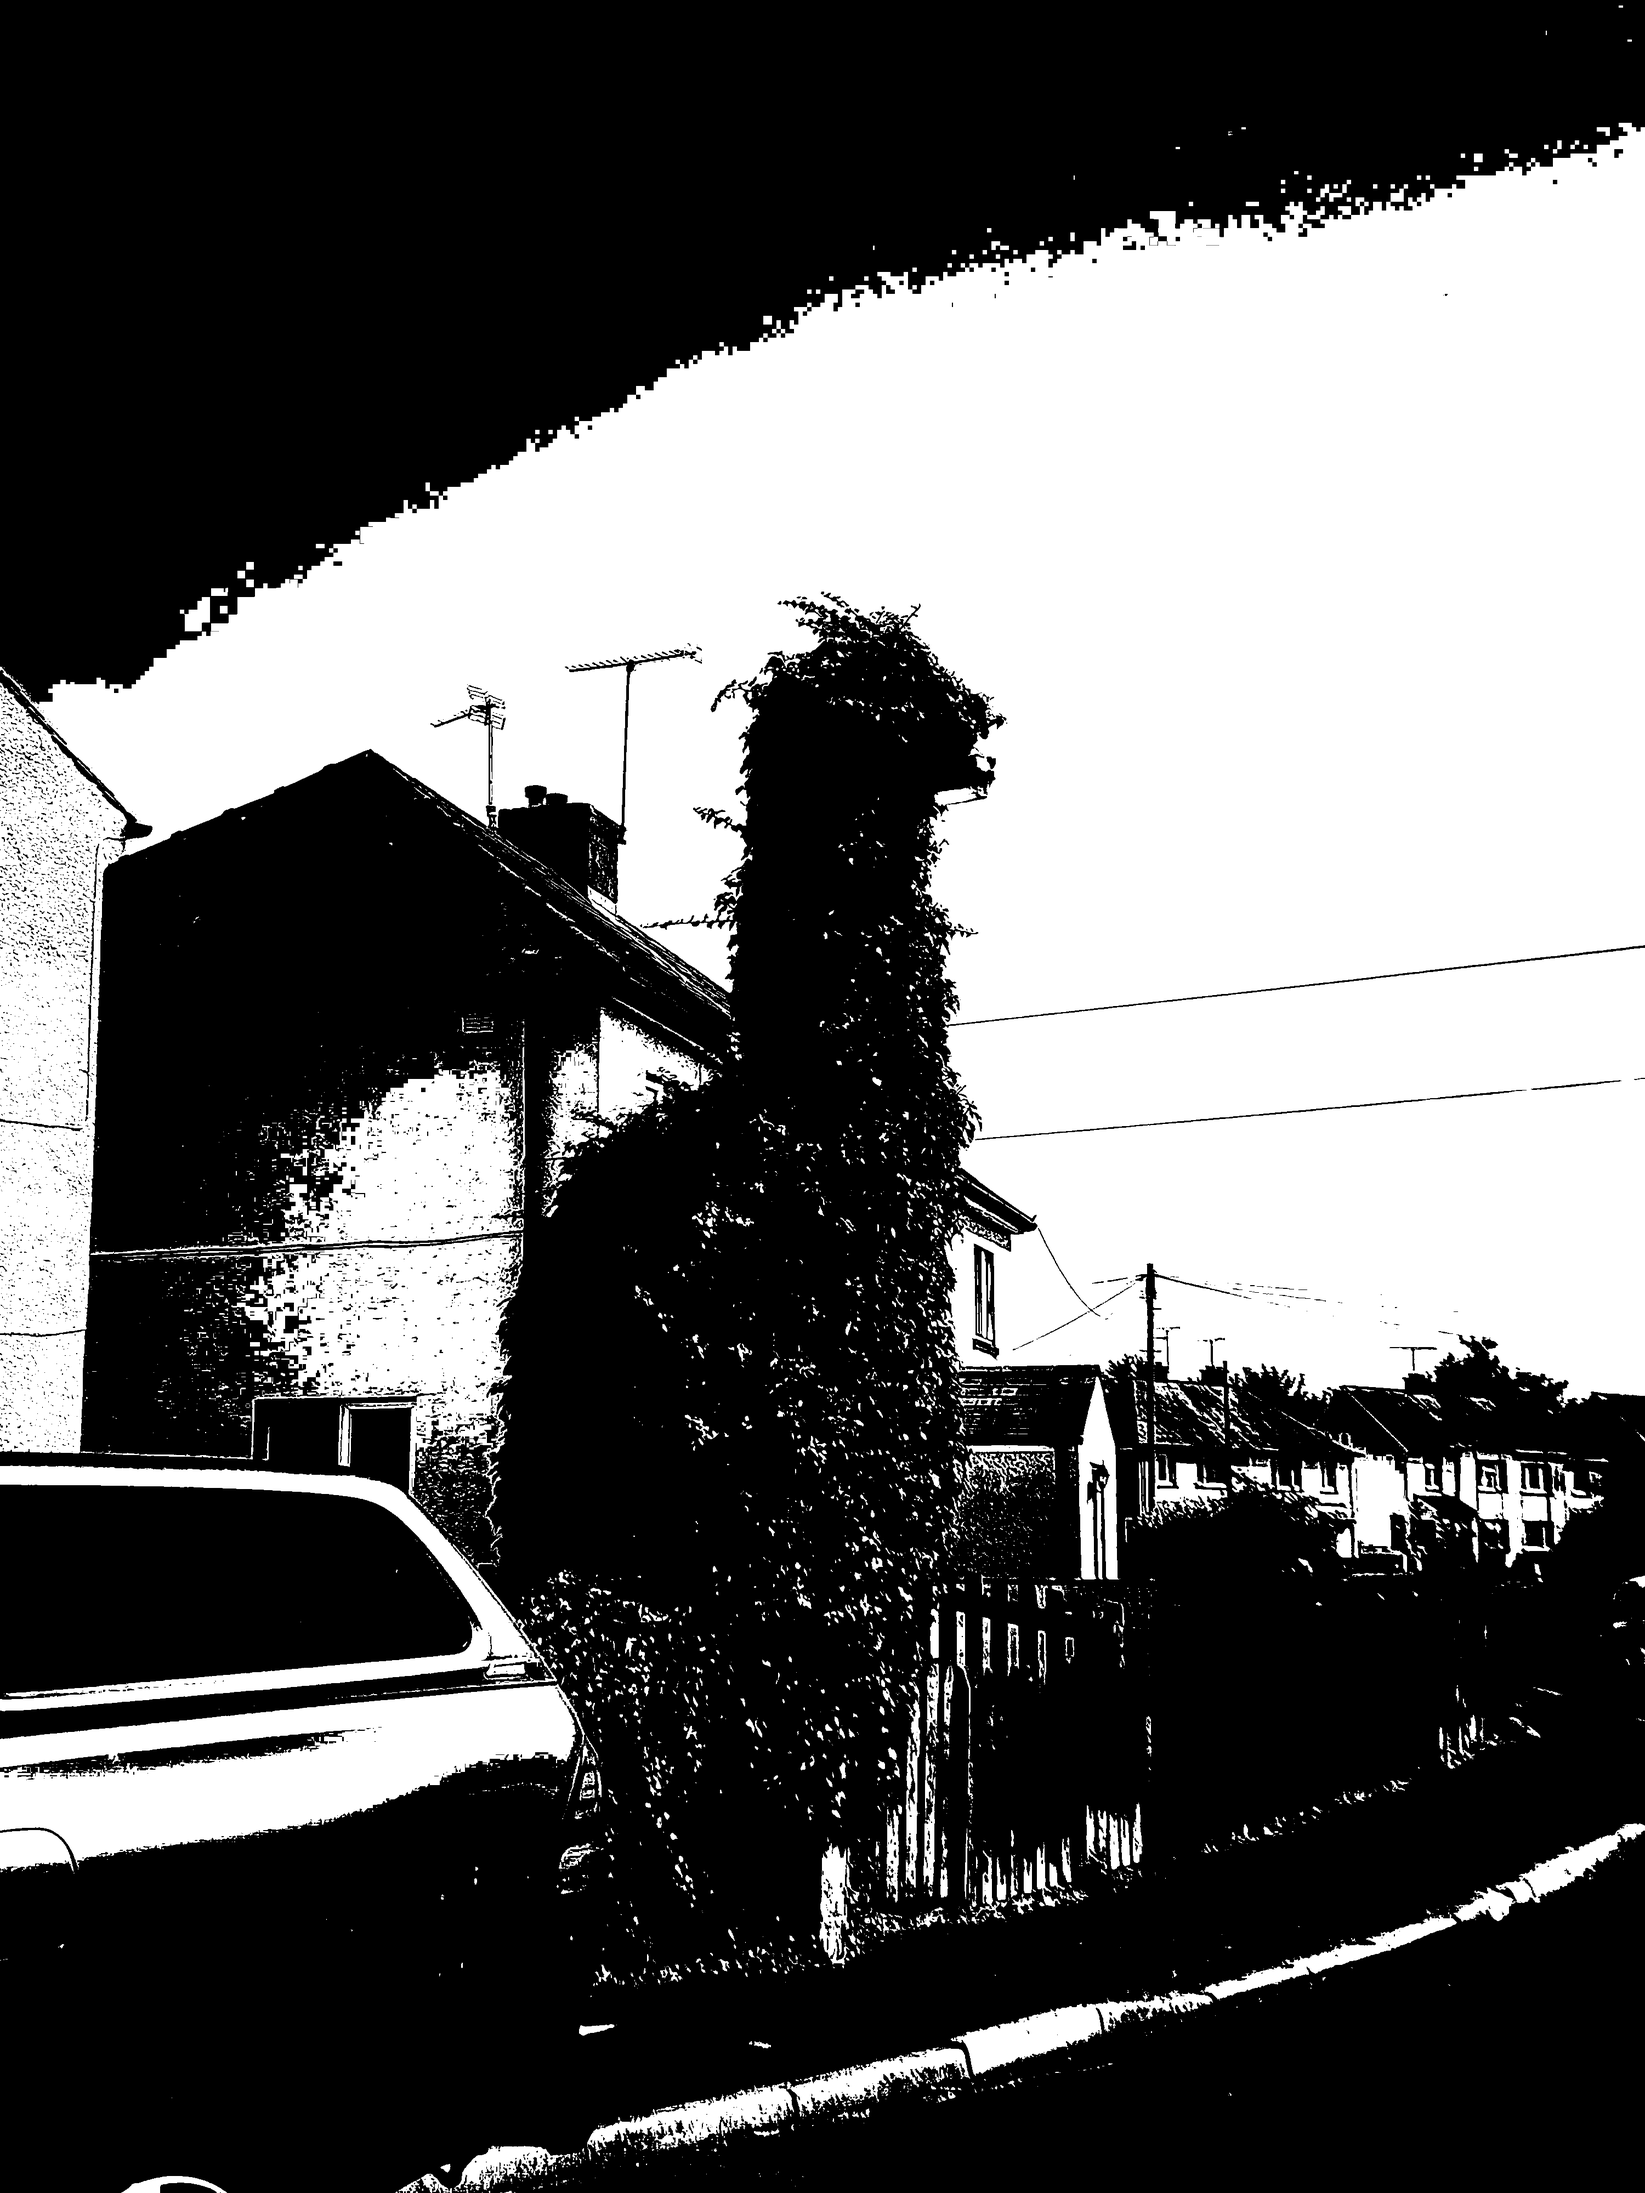
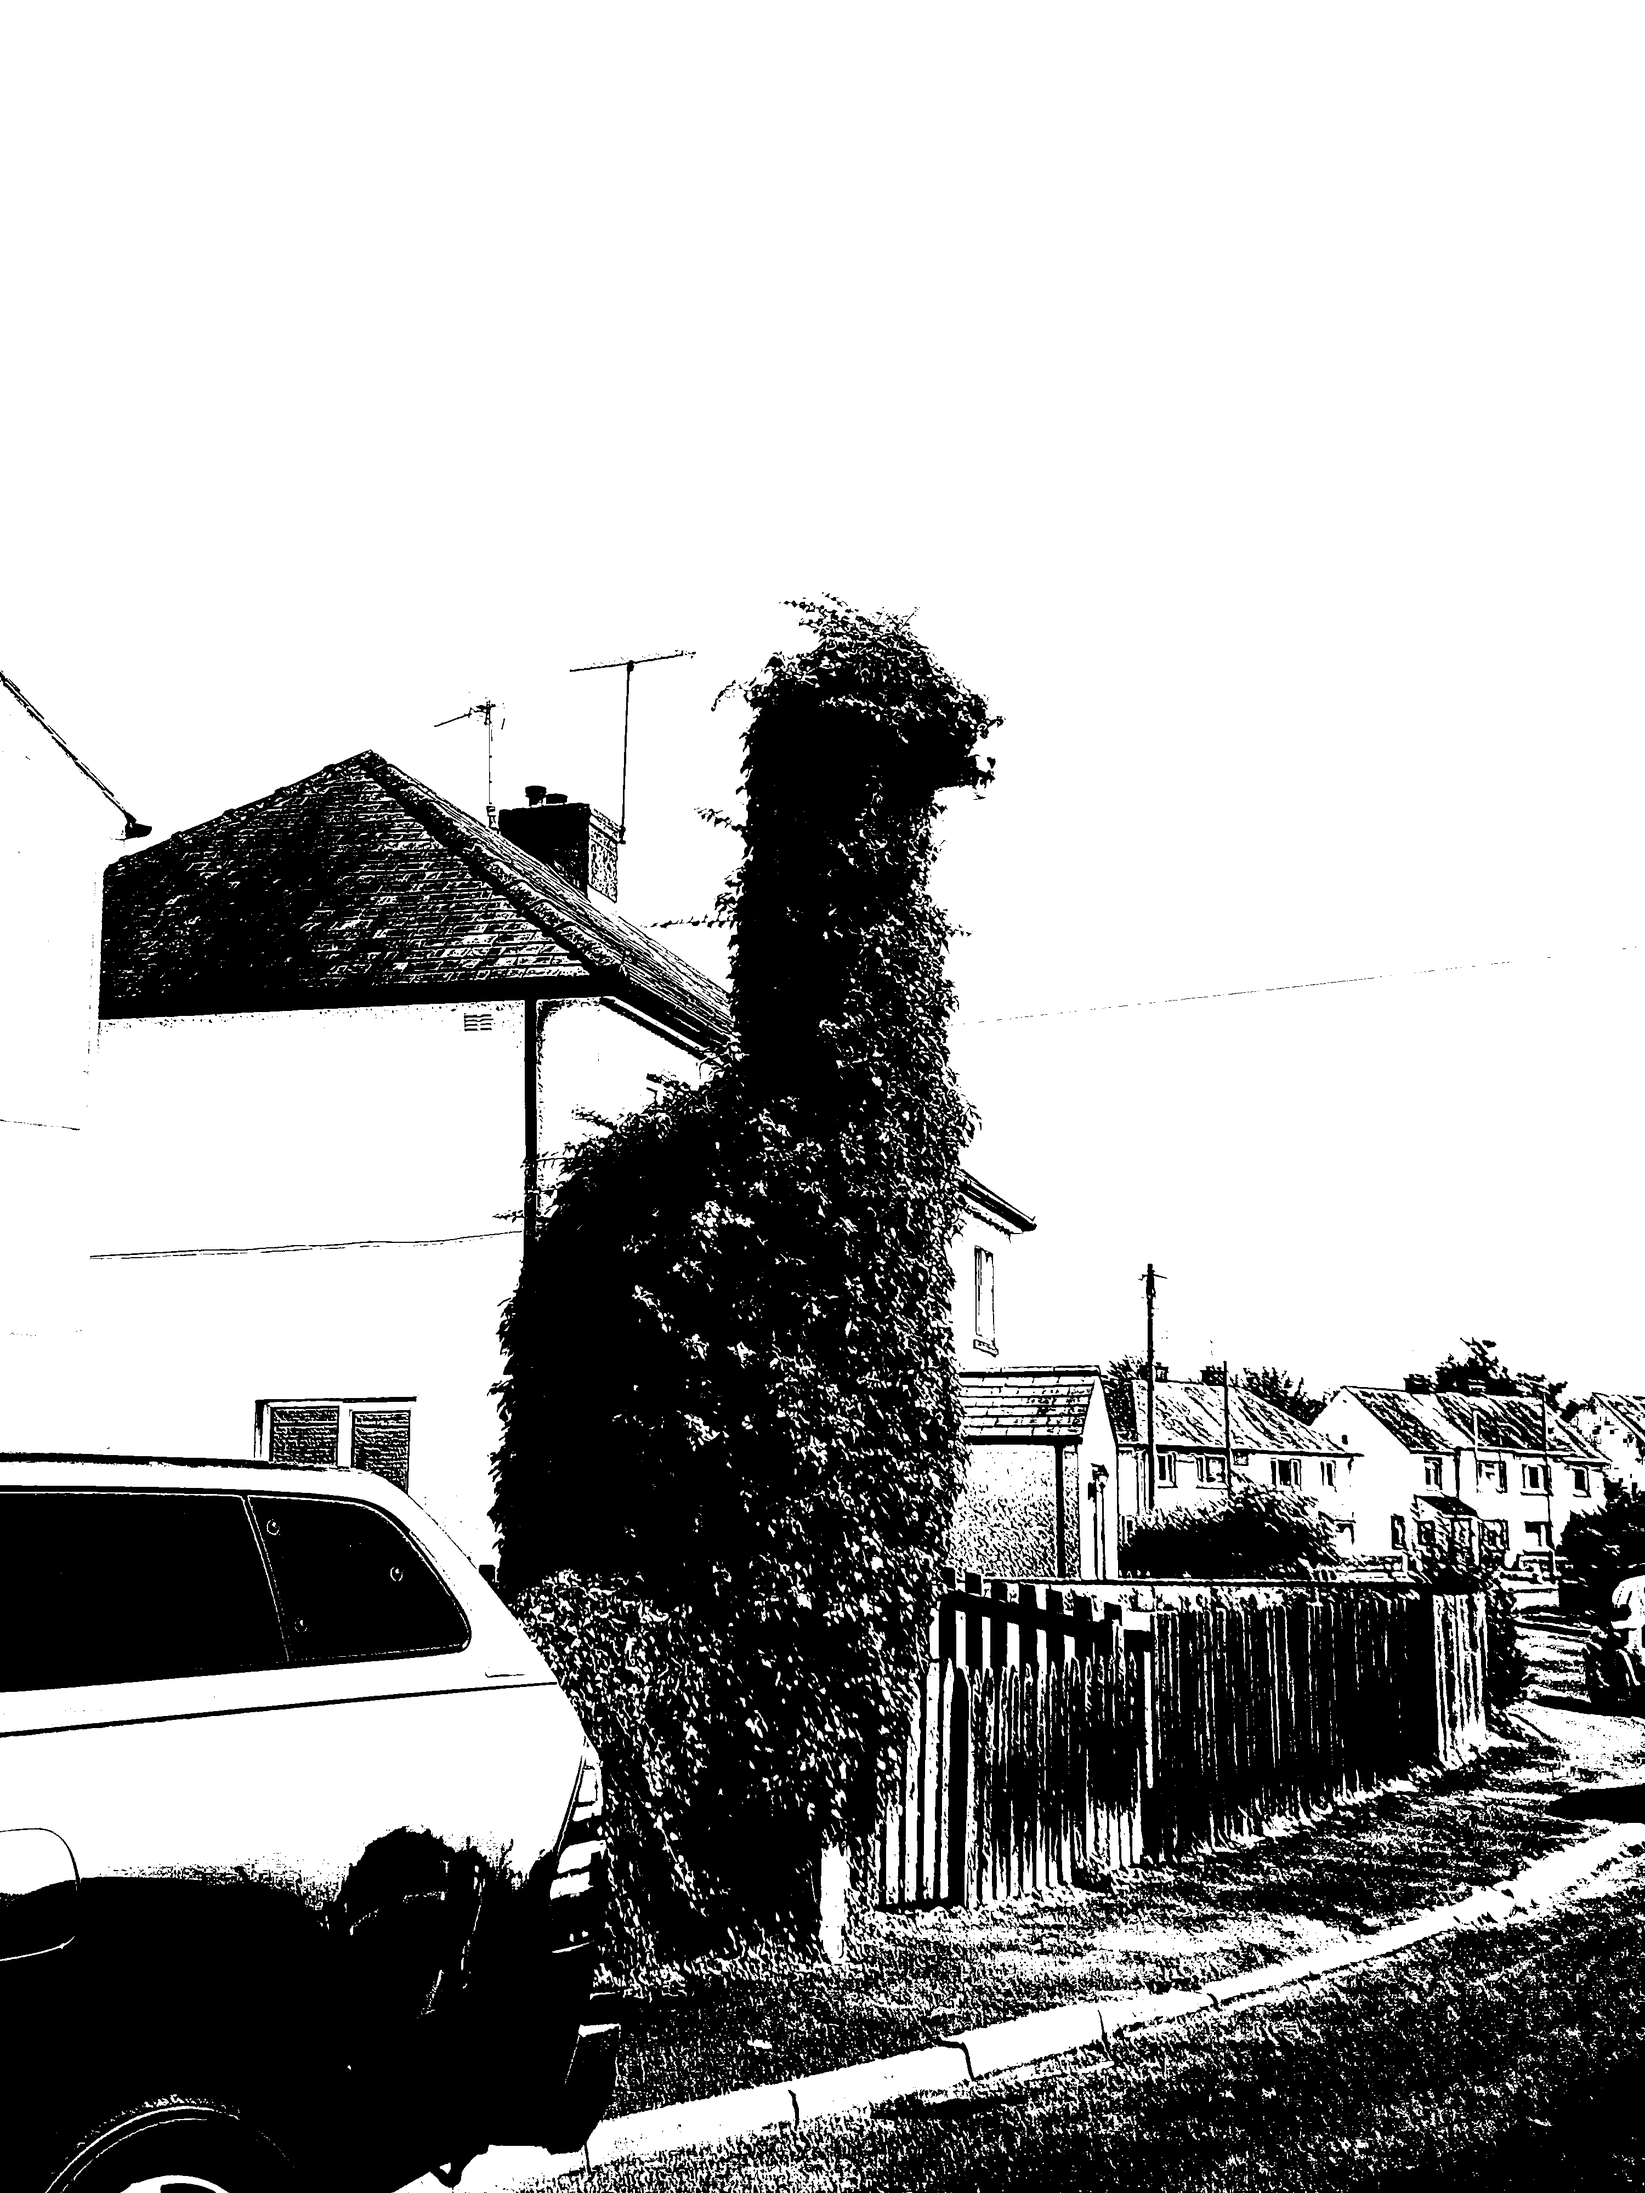
Add sample rate parameter to uniform sampling.

diff --git a/main.cpp b/main.cpp
@@ -21,8 +21,9 @@
 #define BIT_DEPTH 8
 
 constexpr int GreyChannel = 1;
-constexpr float Ratio = 0.6f; // % of black pixels.
+constexpr float Ratio = 0.33f; // % of black pixels.
 constexpr std::string_view Padding = "    ";
+constexpr unsigned int SampleRate = 10;
 
 using namespace std::chrono_literals;
 
@@ -166,17 +167,19 @@ Pixel nth_element_sort(Pixel* greyscale, int width, int height, float ratio) {
  * @param greyscale - the reference image.
  * @param width - the width of the image.
  * @param height - the height of the image.
+ * @param sample_rate - how often to sample the image (a value of 10 means
+ * 		every 10 pixels)
  * @param ratio - the ratio of black to white pixels.
  */
-Pixel uniform_sample(Pixel* greyscale, int width, int height, float ratio) {
+Pixel uniform_sample(Pixel* greyscale, int width, int height, unsigned int sample_rate, float ratio) {
 	std::unique_ptr<size_t[]> count = std::make_unique<size_t[]>(1 << BIT_DEPTH);
 	size_t image_size = width * height;
 
-	for (size_t pixel = 0; pixel < image_size; pixel+=10) {
+	for (size_t pixel = 0; pixel < image_size; pixel += sample_rate) {
 		count[greyscale[pixel]]++;
 	}
 
-	size_t cutoff = (image_size / 10) * ratio;
+	size_t cutoff = (image_size / sample_rate) * ratio;
 	size_t total = 0;
 	size_t index = 0;
 
@@ -230,7 +233,7 @@ int main(int c, char* argv[]) {
 			values to find the threshold value.
 
 		- Uniform Sample
-			Looks at every 10 pixels rather than every pixel. Only good for
+			Looks at every n pixels rather than every pixel. Only good for
 			larger images or images with little detail.
 	*/
 
@@ -278,16 +281,16 @@ int main(int c, char* argv[]) {
 	
 	// Uniform Sample.
 	start = std::chrono::high_resolution_clock::now();
-	Pixel uniform_sample_threshold = uniform_sample(image, width, height, Ratio);
+	Pixel uniform_sample_threshold = uniform_sample(image, width, height, SampleRate, Ratio);
 	end = std::chrono::high_resolution_clock::now();
 	duration = end - start;
 	display("Uniform Sample", uniform_sample_threshold, duration.count());
 	
 	// Export Pixel. Do not change pixels that are on the threshold if they are 0 or max BIT_DEPTH.
 	for (size_t pixel = 0; pixel < width * height; pixel++) {
-		if (image[pixel] > nth_element_sort_threshold) {
+		if (image[pixel] > uniform_sample_threshold) {
 			image[pixel] = (1 << BIT_DEPTH) - 1;
-		} else if (image[pixel] < nth_element_sort_threshold) {
+		} else if (image[pixel] < uniform_sample_threshold) {
 			image[pixel] = 0;
 		}
 		else if (!(image[pixel] == 0 || image[pixel] == ((1 << BIT_DEPTH) - 1))) {
